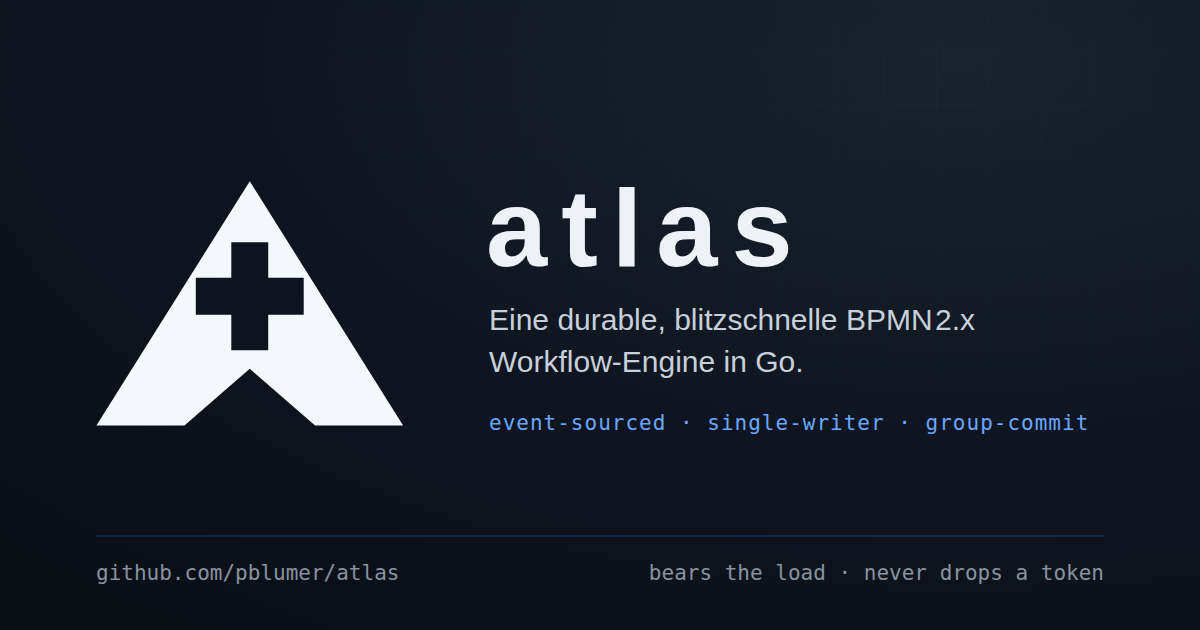
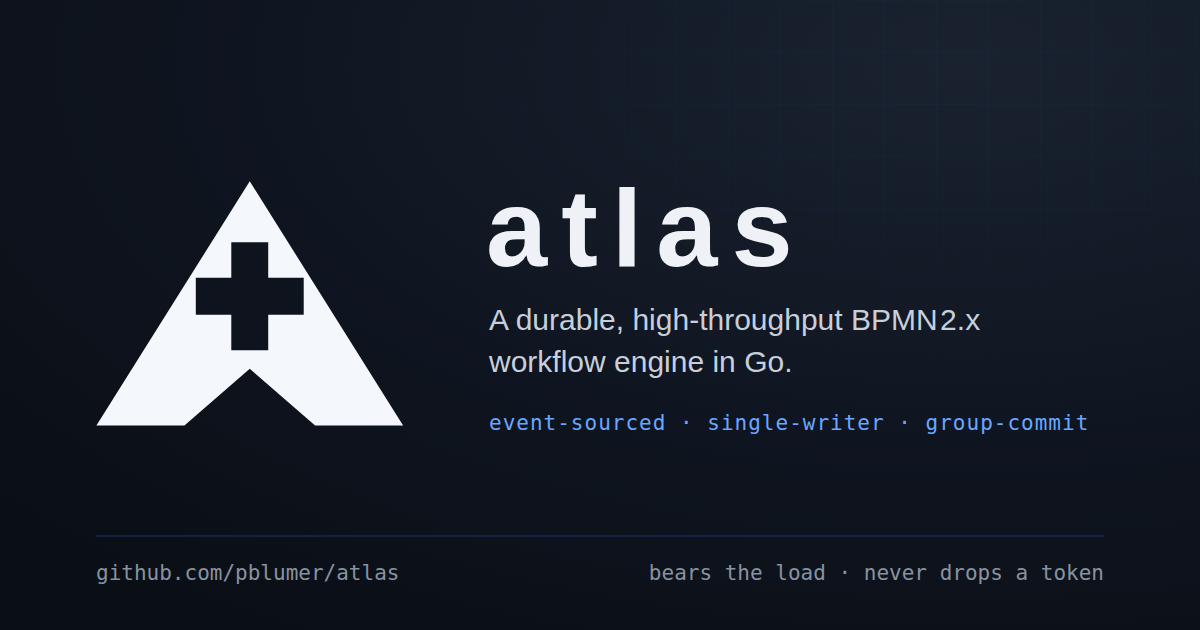
brand: the social card speaks English
The card is the first thing a link preview shows, in Teams, in Slack and on
GitHub itself, where it sits beside the repository's English description. Two
languages in one preview served nobody, so the copy is now English.

Re-rendered from the SVG; a pixel diff confirms nothing outside the two copy
lines moved, and the longer first line clears the rule by 125px.

Claude-Session: https://claude.ai/code/session_01TRjnnnp1rLjVpzvE7y8yKj

Changed region(s): [[0.4008, 0.4825, 0.8325, 0.6032]]

diff --git a/docs/brand/README.md b/docs/brand/README.md
@@ -25,6 +25,9 @@ cross — because at 16px the shipped weights close up.
 Keep it that way wherever the name is set as a wordmark. `ATLAS` in the
 codebase is only an environment-variable prefix and is never the mark.
 
+**The card is set in English.** It is read wherever the repository link is
+pasted, so the copy stays in English even where the surrounding docs are not.
+
 ## Files
 
 | File | What it is |
